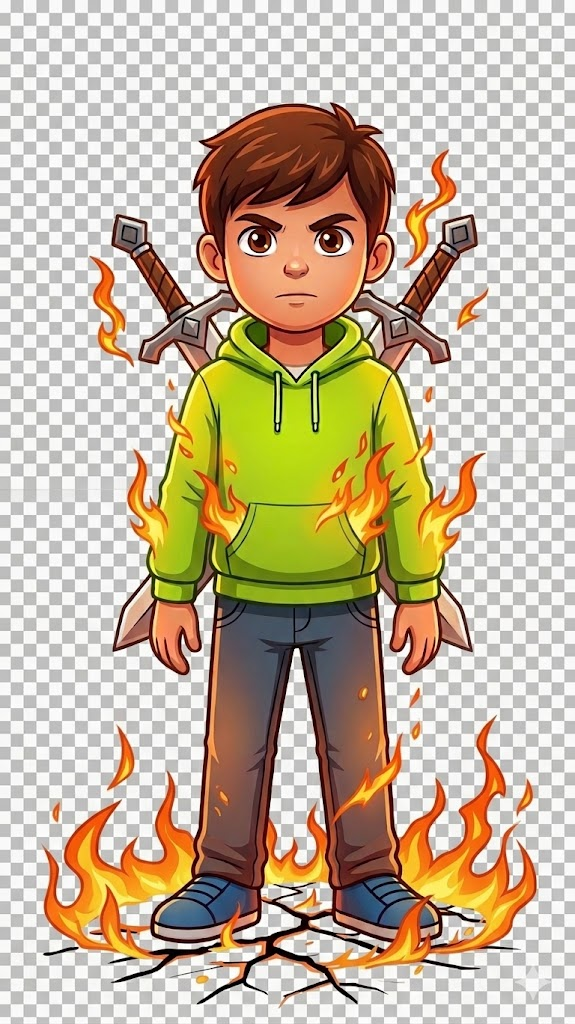
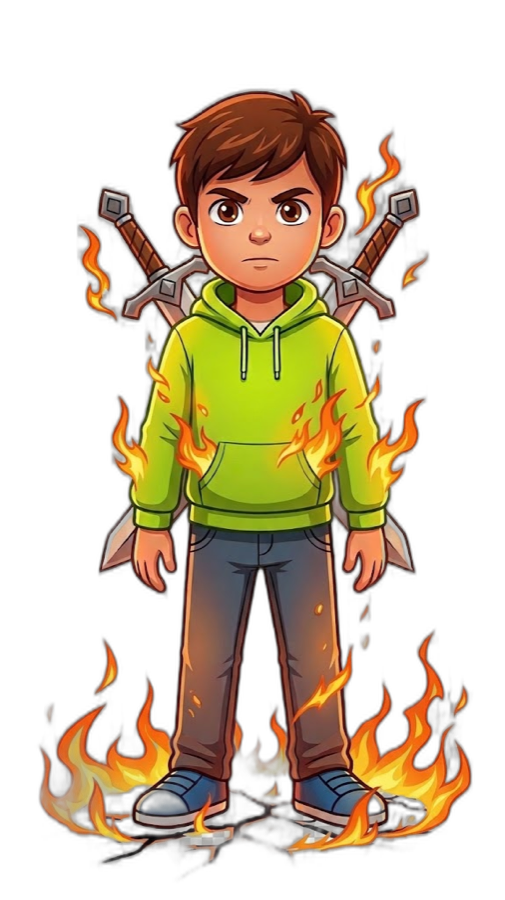
Add all illustrations + scene art, transparent cut-outs, new-story tooling
- Generated full cast illustrations (Gemini) and 8 scene pictures
- True transparent backgrounds for all characters (rembg)
- Reader auto-detects scene art; covers/showcase use illustrations
- Scene art as optimised JPEG, characters as transparent PNG
- Design refresh; new-story + sketch-to-illustration tooling/skills
- README: live URL, commands, skills, publish flow

diff --git a/scripts/remove-bg.py b/scripts/remove-bg.py
@@ -1,0 +1,25 @@
+#!/usr/bin/env python3
+"""Remove backgrounds from character illustrations -> true transparent PNGs.
+
+  python3 scripts/remove-bg.py                 # all of public/art/illustrations/*.png
+  python3 scripts/remove-bg.py path/to/a.png   # specific files
+
+Scenes keep their backgrounds, so only run this on character art.
+Needs: pip install rembg onnxruntime pillow
+"""
+import sys, os, glob
+from rembg import remove, new_session
+from PIL import Image
+
+ROOT = os.path.dirname(os.path.dirname(os.path.abspath(__file__)))
+files = sys.argv[1:] or sorted(glob.glob(os.path.join(ROOT, "public/art/illustrations/*.png")))
+
+session = new_session()  # u2net (good general cut-outs)
+for f in files:
+    try:
+        img = Image.open(f).convert("RGBA")
+        out = remove(img, session=session)
+        out.save(f)
+        print(f"✅ transparent: {os.path.relpath(f, ROOT)}")
+    except Exception as e:
+        print(f"❌ {f}: {e}")

diff --git a/README.md b/README.md
@@ -7,6 +7,8 @@ story is just a **plain Markdown file Lily can write and edit herself**.
 
 First story: 🥔 **The Great Potato Adventure**.
 
+🌍 **Live:** <https://victorsaly.github.io/LilianaBlog/>
+
 ---
 
 ## ✨ What it does
@@ -43,6 +45,42 @@ To make the final files for publishing:
 npm run build      # output goes to dist/
 npm run preview    # preview the built site
 ```
+
+---
+
+## 🧰 Commands & skills
+
+| Command | What it does |
+|---|---|
+| `npm run dev` | Run the site locally |
+| `npm run build` | Build to `dist/` |
+| `npm run new-story -- --title "..."` | Scaffold a new story file |
+| `npm run voices` | Generate per-character narration (needs Azure key in `.env`) |
+| `npm run voices:dry` | Preview the speaker-splitting without a key |
+| `npm run illustrate -- <id>` | Make a character illustration (needs Gemini key) |
+| `npm run illustrate -- --scenes <story-slug>` | Make scene illustrations for a story |
+
+**Claude Code skills** (type the slash command):
+- **/new-story** — draft a whole dyslexia-friendly story from an idea
+- **/sketch-to-illustration** — turn a sketch into blog-matching art
+
+Secrets live in `.env` (git-ignored): `GEMINI_API_KEY`, `AZURE_SPEECH_KEY`,
+`AZURE_SPEECH_REGION`.
+
+---
+
+## 🚀 Publish updates
+
+The site is already deployed to **GitHub Pages** at
+<https://victorsaly.github.io/LilianaBlog/> via `.github/workflows/deploy.yml`.
+To publish any change (new story, new art, new voices):
+
+```bash
+git add -A && git commit -m "what changed" && git push
+```
+
+The pipeline rebuilds and republishes automatically (it sets the `/LilianaBlog/`
+base path for you).
 
 ---
 
